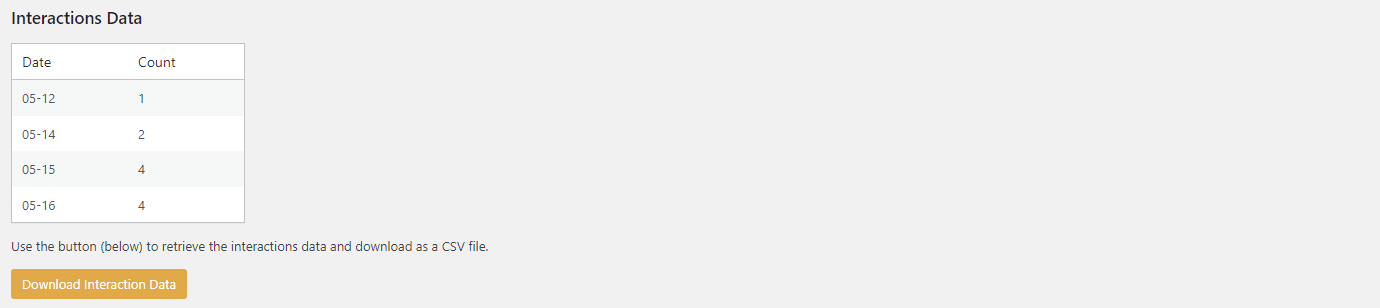
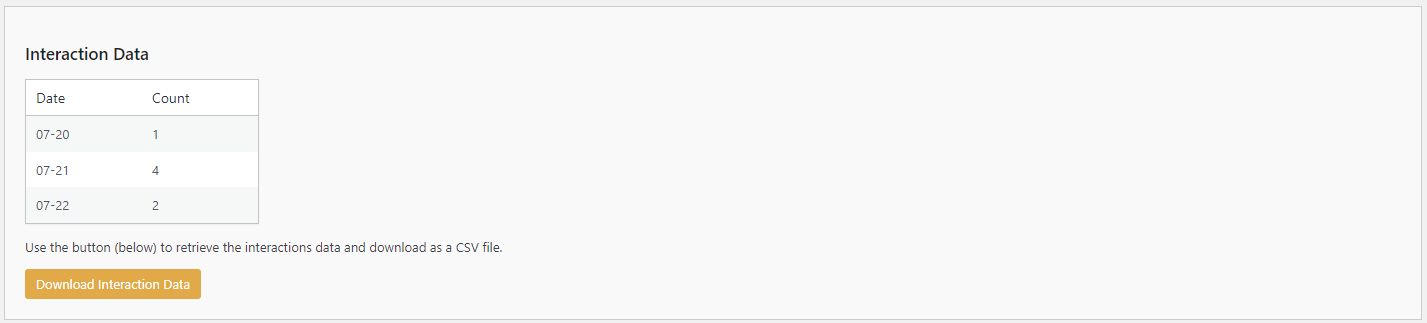
Ver 2.0.7 - Revise reportings settings layout

diff --git a/includes/settings/chatbot-settings-reporting.php b/includes/settings/chatbot-settings-reporting.php
@@ -15,46 +15,80 @@ if ( ! defined( 'WPINC' ) ) {
 }
 
 // Reporting section callback - Ver 1.6.3
-function chatbot_chatgpt_reporting_section_callback($args) {
+function chatbot_chatgpt_reporting_overview_section_callback($args) {
     ?>
     <div>
         <p>Use these setting to select the reporting period for Visitor Interactions.</p>
-        <p>By default, conversation logging is initially turned <b>Off</b>.</p>
         <p>Please review the section <b>Conversation Logging Overview</b> on the <a href="?page=chatbot-chatgpt&tab=support&dir=support&file=conversation-logging-and-history.md">Support</a> tab of this plugin for more details.</p>
         <p style="background-color: #e0f7fa; padding: 10px;"><b>For an explanation on how to use the Reporting and additional documentation please click <a href="?page=chatbot-chatgpt&tab=support&dir=reporting&file=reporting.md">here</a>.</b></p>
-        <h3>Conversation Data</h3>
-            <p>Conversation items stored in your DB total <b><?php echo chatbot_chatgpt_count_conversations(); ?></b> rows (includes both visitor input and chatbot responses).</p>
-            <p>Conversation items stored take up <b><?php echo chatbot_chatgpt_size_conversations(); ?> MB</b> in your database.</p>
-            <p>Use the button (below) to retrieve the conversation data and download as a CSV file.</p>
-            <?php
-                if (is_admin()) {
-                    $header = " ";
-                    $header .= '<a class="button button-primary" href="' . esc_url(admin_url('admin-post.php?action=chatbot_chatgpt_download_conversation_data')) . '">Download Conversation Data</a>';
-                    echo $header;
-                }
-            ?>
-        <h3>Interactions Data</h3>
-            <!-- TEMPORARILY REMOVED AS SOME USERS ARE EXPERIENCING ISSUES WITH THE CHARTS - Ver 1.7.8 -->
-            <!-- <p><?php echo do_shortcode('[chatbot_simple_chart from_database="true"]'); ?></p> -->
-            <p><?php echo chatbot_chatgpt_interactions_table() ?></p>
-            <p>Use the button (below) to retrieve the interactions data and download as a CSV file.</p>
-            <?php
-                if (is_admin()) {
-                    $header = " ";
-                    $header .= '<a class="button button-primary" href="' . esc_url(admin_url('admin-post.php?action=chatbot_chatgpt_download_interactions_data')) . '">Download Interaction Data</a>';
-                    echo $header;
-                }
-            ?>
-        <h3>Token Data</h3>
-            <p><?php echo chatbot_chatgpt_total_tokens() ?></p>
-            <p>Use the button (below) to retrieve the interactions data and download as a CSV file.</p>
-            <?php
-                if (is_admin()) {
-                    $header = " ";
-                    $header .= '<a class="button button-primary" href="' . esc_url(admin_url('admin-post.php?action=chatbot_chatgpt_download_token_usage_data')) . '">Download Token Usage Data</a>';
-                    echo $header;
-                }
-            ?>
+    </div>
+    <?php
+}
+
+function chatbot_chatgpt_reporting_settings_section_callback($args) {
+    ?>
+    <div>
+        <p>Use these settings to select the reporting period for Visitor Interactions.</p>
+        <p>You will need to Enable Conversation Logging if you want to record chatbot interactions. By default, conversation logging is initially turned <b>Off</b>.</p>
+        <p>Conversation Log Days to Keep sets the number of days to keep the conversation log data in the database.</p>
+    </div>
+    <?php
+}
+
+function chatbot_chatgpt_conversation_reporting_section_callback($args) {
+    ?>
+    <div>
+        <p>Conversation items stored in your DB total <b><?php echo chatbot_chatgpt_count_conversations(); ?></b> rows (includes both visitor input and chatbot responses).</p>
+        <p>Conversation items stored take up <b><?php echo chatbot_chatgpt_size_conversations(); ?> MB</b> in your database.</p>
+        <p>Use the button (below) to retrieve the conversation data and download as a CSV file.</p>
+        <?php
+            if (is_admin()) {
+                $header = " ";
+                $header .= '<a class="button button-primary" href="' . esc_url(admin_url('admin-post.php?action=chatbot_chatgpt_download_conversation_data')) . '">Download Conversation Data</a>';
+                echo $header;
+            }
+        ?>
+    </div>
+    <?php
+}
+
+function chatbot_chatgpt_interaction_reporting_section_callback($args) {
+    ?>
+    <div>
+        <!-- TEMPORARILY REMOVED AS SOME USERS ARE EXPERIENCING ISSUES WITH THE CHARTS - Ver 1.7.8 -->
+        <!-- <p><?php echo do_shortcode('[chatbot_simple_chart from_database="true"]'); ?></p> -->
+        <p><?php echo chatbot_chatgpt_interactions_table() ?></p>
+        <p>Use the button (below) to retrieve the interactions data and download as a CSV file.</p>
+        <?php
+            if (is_admin()) {
+                $header = " ";
+                $header .= '<a class="button button-primary" href="' . esc_url(admin_url('admin-post.php?action=chatbot_chatgpt_download_interactions_data')) . '">Download Interaction Data</a>';
+                echo $header;
+            }
+        ?>
+    </div>
+    <?php
+}
+
+function chatbot_chatgpt_token_reporting_section_callback($args) {
+    ?>
+    <div>
+        <p><?php echo chatbot_chatgpt_total_tokens() ?></p>
+        <p>Use the button (below) to retrieve the interactions data and download as a CSV file.</p>
+        <?php
+            if (is_admin()) {
+                $header = " ";
+                $header .= '<a class="button button-primary" href="' . esc_url(admin_url('admin-post.php?action=chatbot_chatgpt_download_token_usage_data')) . '">Download Token Usage Data</a>';
+                echo $header;
+            }
+        ?>
+    </div>
+    <?php
+}
+
+function chatbot_chatgpt_reporting_settings_callback($args){
+    ?>
+    <div>
         <h3>Reporting Settings</h3>
     </div>
     <?php

diff --git a/includes/settings/chatbot-settings-registration.php b/includes/settings/chatbot-settings-registration.php
@@ -166,42 +166,102 @@ function chatbot_chatgpt_settings_init() {
         'chatbot_chatgpt_avatar_section'
     );
 
-    // Reporting settings tab - Ver 1.6.1
-    register_setting('chatbot_chatgpt_reporting', 'chatbot_chatgpt_reporting_period');
-    register_setting('chatbot_chatgpt_reporting', 'chatbot_chatgpt_enable_conversation_logging');
-    register_setting('chatbot_chatgpt_reporting', 'chatbot_chatgpt_conversation_log_days_to_keep');
+    // Register settings
+    register_setting('chatbot_chatgpt_reporting_settings', 'chatbot_chatgpt_reporting_period');
+    register_setting('chatbot_chatgpt_reporting_settings', 'chatbot_chatgpt_enable_conversation_logging');
+    register_setting('chatbot_chatgpt_reporting_settings', 'chatbot_chatgpt_conversation_log_days_to_keep');
 
+    // Reporting Overview Section
     add_settings_section(
-        'chatbot_chatgpt_reporting_section',
-        'Reporting',
-        'chatbot_chatgpt_reporting_section_callback',
-        'chatbot_chatgpt_reporting'
+        'chatbot_chatgpt_reporting_overview_section',
+        'Reporting Overview',
+        'chatbot_chatgpt_reporting_overview_section_callback',
+        'chatbot_chatgpt_reporting_overview'
     );
 
+    // Reporting Settings Section
+    add_settings_section(
+        'chatbot_chatgpt_reporting_settings_section',
+        'Reporting Settings',
+        'chatbot_chatgpt_reporting_settings_section_callback',
+        'chatbot_chatgpt_reporting_settings'
+    );
+
+    // Reporting Settings Field - Reporting Period
     add_settings_field(
         'chatbot_chatgpt_reporting_period',
         'Reporting Period',
         'chatbot_chatgpt_reporting_period_callback',
-        'chatbot_chatgpt_reporting',
-        'chatbot_chatgpt_reporting_section'
+        'chatbot_chatgpt_reporting_settings',
+        'chatbot_chatgpt_reporting_settings_section'
     );
 
+    // Reporting Settings Field - Enable Conversation Logging
     add_settings_field(
         'chatbot_chatgpt_enable_conversation_logging',
         'Enable Conversation Logging',
         'chatbot_chatgpt_enable_conversation_logging_callback',
-        'chatbot_chatgpt_reporting',
-        'chatbot_chatgpt_reporting_section'
+        'chatbot_chatgpt_reporting_settings',
+        'chatbot_chatgpt_reporting_settings_section'
     );
 
+    // Reporting Settings Field - Conversation Log Days to Keep
     add_settings_field(
         'chatbot_chatgpt_conversation_log_days_to_keep',
         'Conversation Log Days to Keep',
         'chatbot_chatgpt_conversation_log_days_to_keep_callback',
-        'chatbot_chatgpt_reporting',
-        'chatbot_chatgpt_reporting_section'
+        'chatbot_chatgpt_reporting_settings',
+        'chatbot_chatgpt_reporting_settings_section'
     );
 
+    // Conversation Data Section
+    add_settings_section(
+        'chatbot_chatgpt_conversation_reporting_section',
+        'Conversation Data',
+        'chatbot_chatgpt_conversation_reporting_section_callback',
+        'chatbot_chatgpt_conversation_reporting'
+    );
+
+    add_settings_field(
+        'chatbot_chatgpt_conversation_reporting_field',
+        'Conversation Data',
+        'chatbot_chatgpt_conversation_reporting_callback',
+        'chatbot_chatgpt_reporting',
+        'chatbot_chatgpt_conversation_reporting_section'
+    );
+
+    // Interaction Data Section
+    add_settings_section(
+        'chatbot_chatgpt_interaction_reporting_section',
+        'Interaction Data',
+        'chatbot_chatgpt_interaction_reporting_section_callback',
+        'chatbot_chatgpt_interaction_reporting'
+    );
+
+    add_settings_field(
+        'chatbot_chatgpt_interaction_reporting_field',
+        'Interaction Data',
+        'chatbot_chatgpt_interaction_reporting_callback',
+        'chatbot_chatgpt_reporting',
+        'chatbot_chatgpt_interaction_reporting_section'
+    );
+
+    // // Token Data Section
+    add_settings_section(
+        'chatbot_chatgpt_token_reporting_section',
+        'Token Data',
+        'chatbot_chatgpt_token_reporting_section_callback',
+        'chatbot_chatgpt_token_reporting'
+    );
+
+    add_settings_field(
+        'chatbot_chatgpt_token_reporting_field',
+        'Token Data',
+        'chatbot_chatgpt_token_reporting_callback',
+        'chatbot_chatgpt_reporting',
+        'chatbot_chatgpt_token_reporting_section'
+    );
+   
     // Custom Buttons settings tab - Ver 1.6.5
     register_setting('chatbot_chatgpt_custom_buttons', 'chatbot_chatgpt_enable_custom_buttons');
     register_setting('chatbot_chatgpt_custom_buttons', 'chatbot_chatgpt_custom_button_name_1');
@@ -310,7 +370,7 @@ function chatbot_chatgpt_settings_init() {
     // Tools Overview
     add_settings_field(
         'chatbot_chatgpt_tools_field',
-        'Sections',
+        'Tools',
         'chatbot_chatgpt_tools_setting_callback',
         'chatbot_chatgpt_tools',
         'chatbot_chatgpt_tools_section'

diff --git a/includes/settings/chatbot-settings.php b/includes/settings/chatbot-settings.php
@@ -340,7 +340,23 @@ function chatbot_chatgpt_settings_page_html() {
                 settings_fields('chatbot_chatgpt_reporting');
 
                 echo '<div style="background-color: #f9f9f9; padding: 20px; margin-top: 10px; border: 1px solid #ccc;">';
-                do_settings_sections('chatbot_chatgpt_reporting');
+                do_settings_sections('chatbot_chatgpt_reporting_overview');
+                echo '</div>';
+
+                echo '<div style="background-color: #f9f9f9; padding: 20px; margin-top: 10px; border: 1px solid #ccc;">';
+                do_settings_sections('chatbot_chatgpt_conversation_reporting');
+                echo '</div>';
+
+                echo '<div style="background-color: #f9f9f9; padding: 20px; margin-top: 10px; border: 1px solid #ccc;">';
+                do_settings_sections('chatbot_chatgpt_interaction_reporting');
+                echo '</div>';
+
+                echo '<div style="background-color: #f9f9f9; padding: 20px; margin-top: 10px; border: 1px solid #ccc;">';
+                do_settings_sections('chatbot_chatgpt_token_reporting');
+                echo '</div>';
+
+                echo '<div style="background-color: #f9f9f9; padding: 20px; margin-top: 10px; border: 1px solid #ccc;">';
+                do_settings_sections('chatbot_chatgpt_reporting_settings');
                 echo '</div>';
 
             } elseif ($active_tab == 'diagnostics') {
